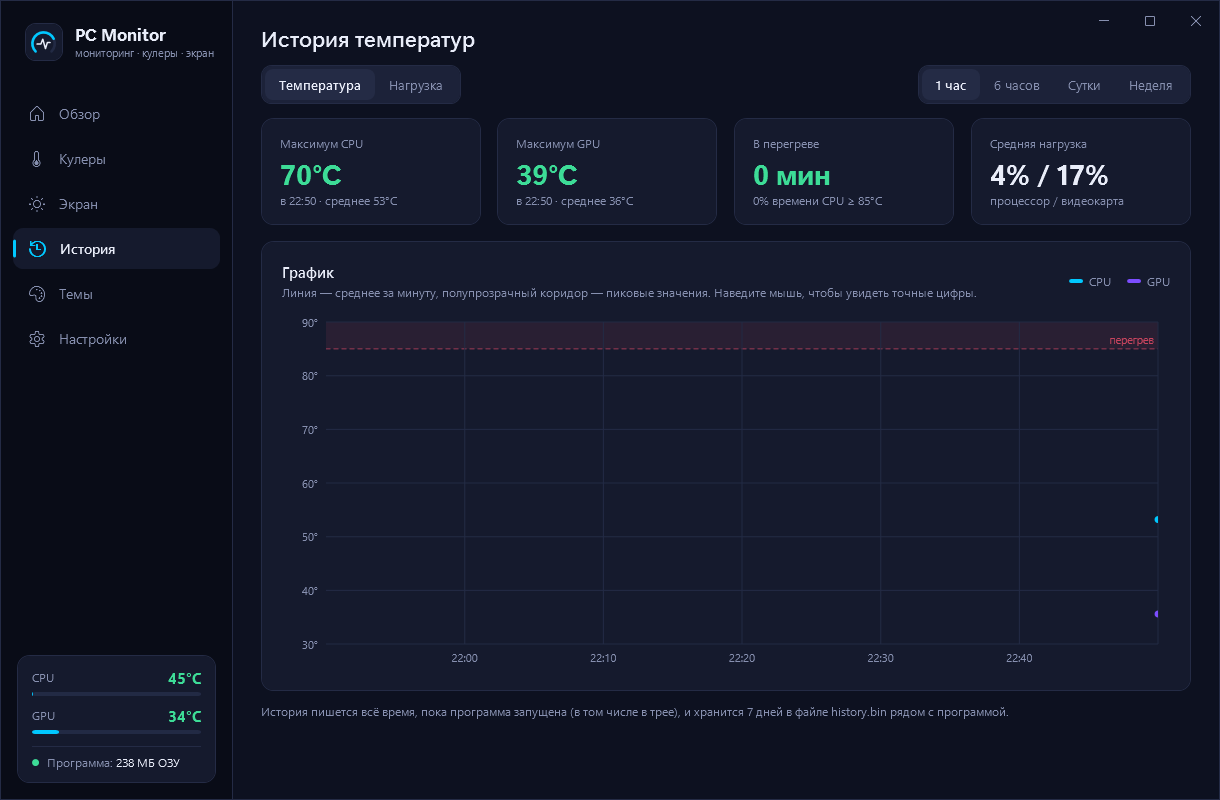
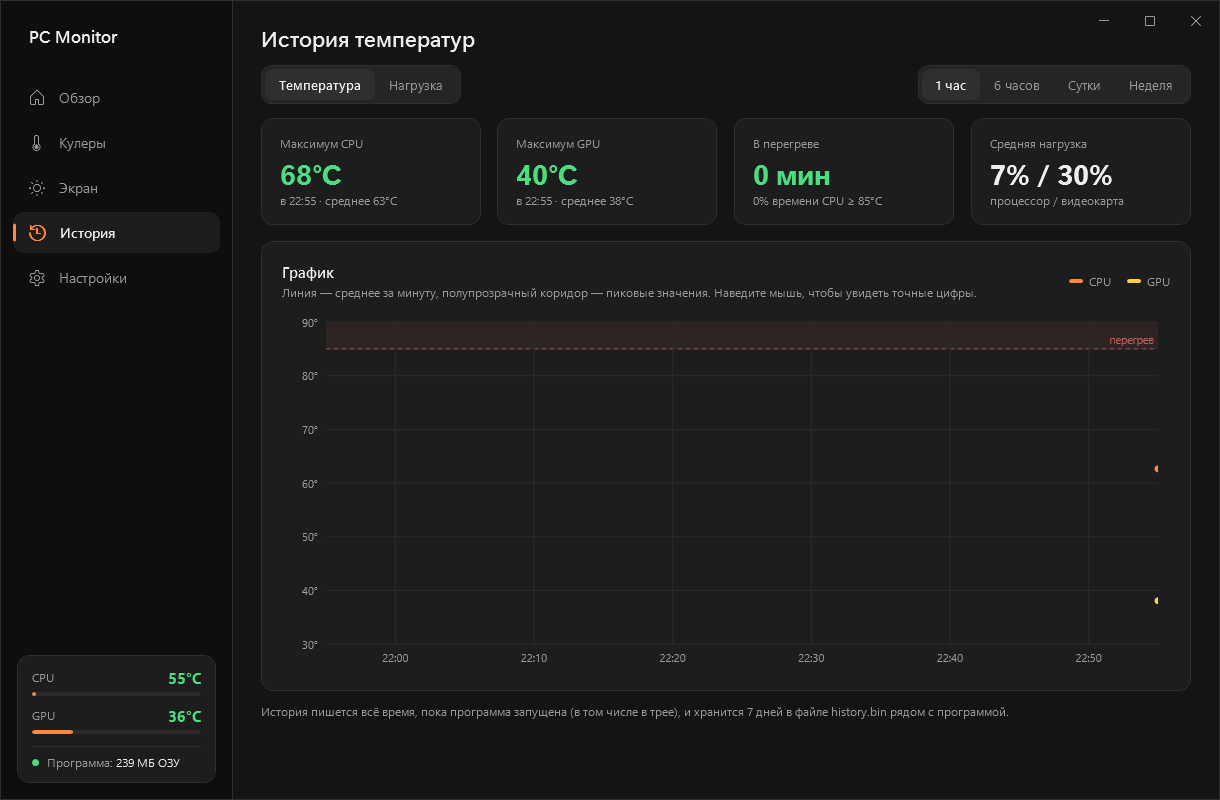
Убрать темы оформления и лишние украшения
Остаётся одна нейтральная палитра. Удалены страница «Темы», выбор темы
и настройка Theme. Из окна убраны логотип с подписью под ним и
приветствие на обзоре. Скриншоты в README обновлены.

diff --git a/src/PCMonitor/MainWindow.xaml b/src/PCMonitor/MainWindow.xaml
@@ -28,21 +28,7 @@
             <!-- ═══ Боковая панель ═══ -->
             <Border Background="{DynamicResource SideBrush}" BorderBrush="{DynamicResource BorderBrush}" BorderThickness="0,0,1,0">
                 <DockPanel>
-                    <StackPanel DockPanel.Dock="Top" Orientation="Horizontal" Margin="24,22,0,30">
-                        <!-- Векторный логотип: чёткий на любом DPI, кольцо в цветах темы -->
-                        <Grid Width="38" Height="38">
-                            <Border CornerRadius="10" BorderThickness="1" BorderBrush="{DynamicResource BorderBrush}" Background="{DynamicResource CardBrush}"/>
-                            <c:RingGauge Width="25" Height="25" Margin="0,2.5,0,0" Value="74" Thickness="2.6"
-                                         Brush="{DynamicResource AccentBrush}" TrackBrush="{DynamicResource TrackBrush}"/>
-                            <Path Data="M0,5 L3.8,5 L5.7,0.1 L8.4,9.6 L10.3,3.5 L13,3.5" Stroke="{DynamicResource TextBrush}" StrokeThickness="1.5"
-                                  StrokeLineJoin="Round" StrokeStartLineCap="Round" StrokeEndLineCap="Round"
-                                  HorizontalAlignment="Center" VerticalAlignment="Center" Margin="0,2.5,0,0"/>
-                        </Grid>
-                        <StackPanel Margin="12,0,0,0" VerticalAlignment="Center">
-                            <TextBlock Text="PC Monitor" FontFamily="{StaticResource DisplayFont}" FontSize="17" FontWeight="Bold"/>
-                            <TextBlock Text="мониторинг · кулеры · экран" Style="{StaticResource Sub}" FontSize="11"/>
-                        </StackPanel>
-                    </StackPanel>
+                    <TextBlock DockPanel.Dock="Top" Text="PC Monitor" FontFamily="{StaticResource DisplayFont}" FontSize="17" FontWeight="SemiBold" Margin="28,24,0,28"/>
 
                     <!-- Мини-сводка внизу панели -->
                     <Border DockPanel.Dock="Bottom" Margin="16" Padding="14,12" CornerRadius="12" Background="{DynamicResource CardBrush}"
@@ -80,8 +66,6 @@
                                          IsChecked="{Binding CurrentPage, Converter={StaticResource Equals}, ConverterParameter={x:Static vm:AppPage.Display}}"/>
                             <RadioButton Style="{StaticResource NavButton}" Tag="&#xE81C;" Content="История"
                                          IsChecked="{Binding CurrentPage, Converter={StaticResource Equals}, ConverterParameter={x:Static vm:AppPage.History}}"/>
-                            <RadioButton Style="{StaticResource NavButton}" Tag="&#xE790;" Content="Темы"
-                                         IsChecked="{Binding CurrentPage, Converter={StaticResource Equals}, ConverterParameter={x:Static vm:AppPage.Themes}}"/>
                             <RadioButton Style="{StaticResource NavButton}" Tag="&#xE713;" Content="Настройки"
                                          IsChecked="{Binding CurrentPage, Converter={StaticResource Equals}, ConverterParameter={x:Static vm:AppPage.Settings}}"/>
                         </StackPanel>
@@ -109,7 +93,6 @@
                     <v:FansPage Tag="{x:Static vm:AppPage.Fans}" DataContext="{Binding Fans}"/>
                     <v:DisplayPage Tag="{x:Static vm:AppPage.Display}" DataContext="{Binding Display}"/>
                     <v:HistoryPage Tag="{x:Static vm:AppPage.History}" DataContext="{Binding History}"/>
-                    <v:ThemesPage Tag="{x:Static vm:AppPage.Themes}" DataContext="{Binding Themes}"/>
                     <v:SettingsPage Tag="{x:Static vm:AppPage.Settings}" DataContext="{Binding Settings}"/>
                 </Grid>
             </Grid>

diff --git a/src/PCMonitor/Views/OverviewPage.xaml b/src/PCMonitor/Views/OverviewPage.xaml
@@ -25,9 +25,6 @@
                 <Border Style="{StaticResource Chip}">
                     <TextBlock FontSize="12.5"><Run Text="&#xE916;" FontFamily="{StaticResource Icons}" Foreground="{DynamicResource AccentBrush}"/><Run Text="  Без перезагрузки " Foreground="{DynamicResource SubTextBrush}"/><Run Text="{Binding UptimeText, Mode=OneWay}" FontWeight="SemiBold"/></TextBlock>
                 </Border>
-                <Border Style="{StaticResource Chip}">
-                    <TextBlock FontSize="12.5"><Run Text="&#xE706;" FontFamily="{StaticResource Icons}" Foreground="{DynamicResource Accent2Brush}"/><Run Text="  "/><Run Text="{Binding Greeting, Mode=OneWay}"/></TextBlock>
-                </Border>
                 <TextBlock Text="Инициализация датчиков…" Style="{StaticResource Sub}" VerticalAlignment="Center"
                            Visibility="{Binding IsLoading, Converter={StaticResource BoolToVisibility}}"/>
             </StackPanel>

diff --git a/src/PCMonitor/Theming/ThemeManager.cs b/src/PCMonitor/Theming/ThemeManager.cs
@@ -4,10 +4,8 @@ using PCMonitor.Core;
 
 namespace PCMonitor.Theming;
 
-/// <summary>Палитра темы. Цвета в формате #RRGGBB.</summary>
-public sealed record ThemeDefinition(
-    string Name,
-    bool IsDark,
+/// <summary>Палитра приложения. Цвета в формате #RRGGBB.</summary>
+public sealed record Palette(
     string Background,
     string Sidebar,
     string Card,
@@ -22,40 +20,13 @@ public sealed record ThemeDefinition(
     string Warn,
     string Hot);
 
-/// <summary>
-/// Каталог тем и их применение: тема — это набор кистей в ресурсах приложения,
-/// разметка ссылается на них через DynamicResource и перекрашивается сразу.
-/// </summary>
+/// <summary>Кисти палитры кладутся в ресурсы приложения; разметка ссылается на них через DynamicResource.</summary>
 public static class ThemeManager
 {
-    public static IReadOnlyList<ThemeDefinition> All { get; } =
-    [
-        new("Полночь", true, "#0D1120", "#090C17", "#151A2D", "#1C2239", "#242B45", "#E9EDF9", "#8790B0", "#00C8FF", "#7C4DFF", "#222A44", "#3DDC97", "#FFB547", "#FF5370"),
-        new("Неон", true, "#0B0A12", "#07060C", "#15121F", "#1D1929", "#2B2540", "#F3EEFF", "#9A91B9", "#FF3EA5", "#8C52FF", "#251F38", "#3DF5B0", "#FFC94D", "#FF4D6D"),
-        new("Океан", true, "#091622", "#060F18", "#0F202F", "#14293C", "#1C3349", "#E3F1FB", "#86A3BC", "#3EA6FF", "#00E5D4", "#172A3C", "#2EE6A6", "#FFC24D", "#FF5C7A"),
-        new("Изумруд", true, "#0B1512", "#07100D", "#12201B", "#172A23", "#20372D", "#E5F5EE", "#84A89A", "#2EE6A6", "#B4F25C", "#1B2F27", "#5CF2A0", "#FFD25C", "#FF6B6B"),
-        new("Закат", true, "#190E14", "#12080D", "#23141B", "#2D1A23", "#3A222D", "#FCEFF3", "#B8929F", "#FF6B6B", "#FFB36B", "#331F2A", "#5CE0A0", "#FFC94D", "#FF4D6D"),
-        new("Графит", true, "#141414", "#0E0E0E", "#1D1D1D", "#252525", "#2F2F2F", "#EEEEEE", "#999999", "#FF8A3D", "#FFD23D", "#2B2B2B", "#4ADE80", "#FACC15", "#F87171"),
-        new("Светлая", false, "#F2F4F9", "#E8ECF4", "#FFFFFF", "#F5F7FC", "#DCE2ED", "#1A2033", "#69738E", "#2F6BFF", "#8B5CF6", "#E5E9F2", "#16A34A", "#D97706", "#E11D48"),
-        new("Сакура", false, "#FBF3F6", "#F4E6EC", "#FFFFFF", "#FFF6F9", "#EFD9E2", "#2B1A21", "#8E6B78", "#E84A7F", "#A95CFF", "#F2E2E9", "#16A34A", "#D97706", "#E11D48"),
-    ];
-
-    public static ThemeDefinition Current { get; private set; } = All[0];
-
-    public static event Action<ThemeDefinition>? Changed;
-
-    public static ThemeDefinition Find(string name) => All.FirstOrDefault(t => t.Name == name) ?? All[0];
+    public static Palette Current { get; } =
+        new("#141414", "#0E0E0E", "#1D1D1D", "#252525", "#2F2F2F", "#EEEEEE", "#999999", "#FF8A3D", "#FFD23D", "#2B2B2B", "#4ADE80", "#FACC15", "#F87171");
 
     public static Color ParseColor(string hex) => (Color)ColorConverter.ConvertFromString(hex);
-
-    /// <summary>Образец темы на странице «Темы»: переход между двумя акцентами палитры.</summary>
-    public static LinearGradientBrush CreateAccentGradient(ThemeDefinition theme)
-    {
-        ArgumentNullException.ThrowIfNull(theme);
-        var brush = new LinearGradientBrush(ParseColor(theme.Accent), ParseColor(theme.Accent2), new Point(0, 0), new Point(1, 1));
-        brush.Freeze();
-        return brush;
-    }
 
     public static SolidColorBrush CreateBrush(string hex, byte alpha = 255)
     {
@@ -66,7 +37,7 @@ public static class ThemeManager
         return brush;
     }
 
-    /// <summary>Цвет уровня тревожности в текущей теме (для кода, которому не доступны ресурсы WPF).</summary>
+    /// <summary>Цвет уровня тревожности (для кода, которому не доступны ресурсы WPF).</summary>
     public static string SeverityColor(Severity severity) => severity switch
     {
         Severity.Critical => Current.Hot,
@@ -74,32 +45,28 @@ public static class ThemeManager
         _ => Current.Accent,
     };
 
-    public static void Apply(ThemeDefinition theme)
+    public static void Apply()
     {
-        ArgumentNullException.ThrowIfNull(theme);
-
+        var p = Current;
         var r = Application.Current.Resources;
-        r["BgBrush"] = CreateBrush(theme.Background);
-        r["SideBrush"] = CreateBrush(theme.Sidebar);
-        r["CardBrush"] = CreateBrush(theme.Card);
-        r["CardHoverBrush"] = CreateBrush(theme.CardHover);
-        r["BorderBrush"] = CreateBrush(theme.Border);
-        r["TextBrush"] = CreateBrush(theme.Text);
-        r["SubTextBrush"] = CreateBrush(theme.SubText);
-        r["AccentBrush"] = CreateBrush(theme.Accent);
-        r["Accent2Brush"] = CreateBrush(theme.Accent2);
-        r["AccentSoftBrush"] = CreateBrush(theme.Accent, 0x26);
-        r["AccentHoverBrush"] = CreateBrush(theme.Accent, 0x70);
-        r["TrackBrush"] = CreateBrush(theme.Track);
-        r["ScrollBrush"] = CreateBrush(theme.SubText, 0x55);
-        r["GoodBrush"] = CreateBrush(theme.Good);
-        r["WarnBrush"] = CreateBrush(theme.Warn);
-        r["HotBrush"] = CreateBrush(theme.Hot);
-        r["WarnSoftBrush"] = CreateBrush(theme.Warn, 0x22);
+        r["BgBrush"] = CreateBrush(p.Background);
+        r["SideBrush"] = CreateBrush(p.Sidebar);
+        r["CardBrush"] = CreateBrush(p.Card);
+        r["CardHoverBrush"] = CreateBrush(p.CardHover);
+        r["BorderBrush"] = CreateBrush(p.Border);
+        r["TextBrush"] = CreateBrush(p.Text);
+        r["SubTextBrush"] = CreateBrush(p.SubText);
+        r["AccentBrush"] = CreateBrush(p.Accent);
+        r["Accent2Brush"] = CreateBrush(p.Accent2);
+        r["AccentSoftBrush"] = CreateBrush(p.Accent, 0x26);
+        r["AccentHoverBrush"] = CreateBrush(p.Accent, 0x70);
+        r["TrackBrush"] = CreateBrush(p.Track);
+        r["ScrollBrush"] = CreateBrush(p.SubText, 0x55);
+        r["GoodBrush"] = CreateBrush(p.Good);
+        r["WarnBrush"] = CreateBrush(p.Warn);
+        r["HotBrush"] = CreateBrush(p.Hot);
+        r["WarnSoftBrush"] = CreateBrush(p.Warn, 0x22);
         // Подложка выбранного сегмента или режима: нейтральная, акцентом выделяется только текст.
-        r["SelectionBrush"] = CreateBrush(theme.Border);
-
-        Current = theme;
-        Changed?.Invoke(theme);
+        r["SelectionBrush"] = CreateBrush(p.Border);
     }
 }

diff --git a/src/PCMonitor/ViewModels/SystemStatusViewModel.cs b/src/PCMonitor/ViewModels/SystemStatusViewModel.cs
@@ -11,7 +11,6 @@ namespace PCMonitor.ViewModels;
 public sealed class SystemStatusViewModel : ObservableObject
 {
     private const int MemoryRefreshEveryTicks = 3;
-    private const int GreetingRefreshEveryTicks = 60;
 
     private int _ticks;
     private bool _isLoading = true;
@@ -42,14 +41,6 @@ public sealed class SystemStatusViewModel : ObservableObject
     public string UptimeText { get => _uptimeText; private set => SetProperty(ref _uptimeText, value); }
 
     public string AppMemoryText { get => _appMemoryText; private set => SetProperty(ref _appMemoryText, value); }
-
-    public string Greeting => DateTime.Now.Hour switch
-    {
-        >= 5 and < 12 => "Доброе утро",
-        >= 12 and < 18 => "Добрый день",
-        >= 18 and < 23 => "Добрый вечер",
-        _ => "Доброй ночи",
-    };
 
     public string AdminStatus => SystemInfo.IsAdministrator ? "есть" : "нет";
 
@@ -85,11 +76,6 @@ public sealed class SystemStatusViewModel : ObservableObject
         if (_ticks % MemoryRefreshEveryTicks == 1)
         {
             AppMemoryText = $"{Environment.WorkingSet / (1024.0 * 1024):0} МБ ОЗУ";
-        }
-
-        if (_ticks % GreetingRefreshEveryTicks == 1)
-        {
-            OnPropertyChanged(nameof(Greeting));
         }
     }
 

diff --git a/src/PCMonitor/ViewModels/MainViewModel.cs b/src/PCMonitor/ViewModels/MainViewModel.cs
@@ -10,7 +10,6 @@ public enum AppPage
     Fans,
     Display,
     History,
-    Themes,
     Settings,
 }
 
@@ -29,7 +28,6 @@ public sealed class MainViewModel : ObservableObject, IDisposable
         Overview = new OverviewViewModel(Status, Fans, new RelayCommand(() => CurrentPage = AppPage.Fans));
         Display = new DisplayViewModel(settings);
         History = new HistoryViewModel(history);
-        Themes = new ThemesViewModel(settings);
         Settings = new SettingsViewModel(settings, Status, requestRefresh);
     }
 
@@ -44,8 +42,6 @@ public sealed class MainViewModel : ObservableObject, IDisposable
     public DisplayViewModel Display { get; }
 
     public HistoryViewModel History { get; }
-
-    public ThemesViewModel Themes { get; }
 
     public SettingsViewModel Settings { get; }
 
@@ -71,7 +67,6 @@ public sealed class MainViewModel : ObservableObject, IDisposable
         AppPage.Fans => "Кулеры",
         AppPage.Display => "Экран",
         AppPage.History => "История температур",
-        AppPage.Themes => "Темы оформления",
         AppPage.Settings => "Настройки",
         _ => "Обзор системы",
     };

diff --git a/src/PCMonitor/Platform/TrayIcon.cs b/src/PCMonitor/Platform/TrayIcon.cs
@@ -21,7 +21,6 @@ public sealed class TrayIcon : IDisposable
     private readonly Drawing.Icon _appIcon;
     private IntPtr _renderedIcon;
     private int? _renderedTemperature;
-    private string _renderedTheme = string.Empty;
 
     public TrayIcon()
     {
@@ -63,13 +62,12 @@ public sealed class TrayIcon : IDisposable
         _notifyIcon.Text = BuildTooltip(snapshot);
 
         int? temperature = showTemperature && snapshot.CpuTemp is { } t ? (int)Math.Round(t) : null;
-        if (temperature == _renderedTemperature && _renderedTheme == ThemeManager.Current.Name)
+        if (temperature == _renderedTemperature)
         {
             return;
         }
 
         _renderedTemperature = temperature;
-        _renderedTheme = ThemeManager.Current.Name;
 
         if (temperature is not { } value)
         {

diff --git a/src/PCMonitor/App.xaml.cs b/src/PCMonitor/App.xaml.cs
@@ -55,7 +55,7 @@ public partial class App : Application
         Log.Info($"Запуск {typeof(App).Assembly.GetName().Version}, администратор: {SystemInfo.IsAdministrator}, PawnIO: {SystemInfo.IsPawnIoInstalled}");
 
         _settings = AppSettings.Load(AppPaths.Settings);
-        ThemeManager.Apply(ThemeManager.Find(_settings.Theme));
+        ThemeManager.Apply();
 
         _history = new TemperatureHistory(AppPaths.History);
         _monitor = new HardwareMonitor(_settings);

diff --git a/src/PCMonitor/Core/AppSettings.cs b/src/PCMonitor/Core/AppSettings.cs
@@ -23,8 +23,6 @@ public sealed class AppSettings : IDisposable
     private Timer? _saveTimer;
     private string _path = AppPaths.Settings;
 
-    public string Theme { get; set; } = "Полночь";
-
     public bool StartMinimized { get; set; } = true;
 
     public bool CloseToTray { get; set; } = true;

diff --git a/README.md b/README.md
@@ -14,9 +14,9 @@
 |---|---|
 | ![Кулеры](docs/screenshots/fans.png) | ![История](docs/screenshots/history.png) |
 
-| Темы | Настройки |
-|---|---|
-| ![Темы](docs/screenshots/themes.png) | ![Настройки](docs/screenshots/settings.png) |
+| Настройки |
+|---|
+| ![Настройки](docs/screenshots/settings.png) |
 
 ## Запуск
 
@@ -60,7 +60,7 @@ src/PCMonitor/
   Hardware/     опрос датчиков (SensorReader), управление кулерами (FanController), фоновый цикл (HardwareMonitor)
   Core/         настройки, пороги температур, форматирование, история, лог — без зависимостей от UI
   Platform/     WinAPI, трей, автозапуск через Планировщик, единственный экземпляр
-  Theming/      палитры и применение тем
+  Theming/      палитра приложения
   ViewModels/   по модели на страницу + корневая MainViewModel
   Views/        страницы (UserControl), без логики в code-behind
   Controls/     рисуемые элементы (кольцо, графики, редактор кривой) и поведения
